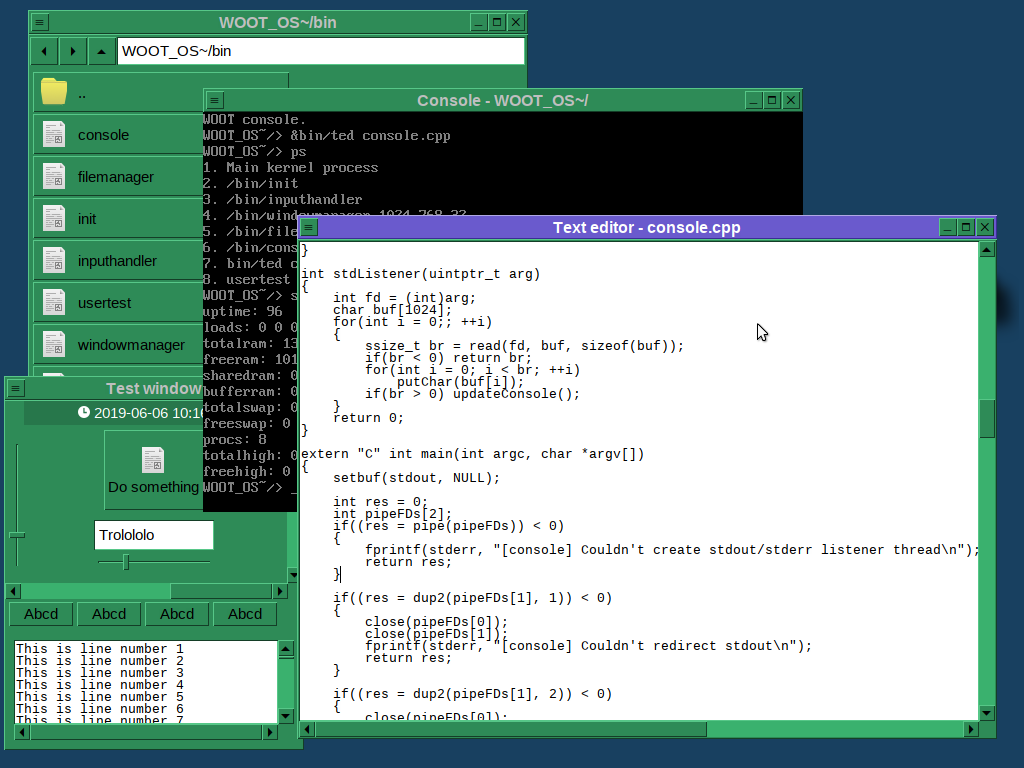
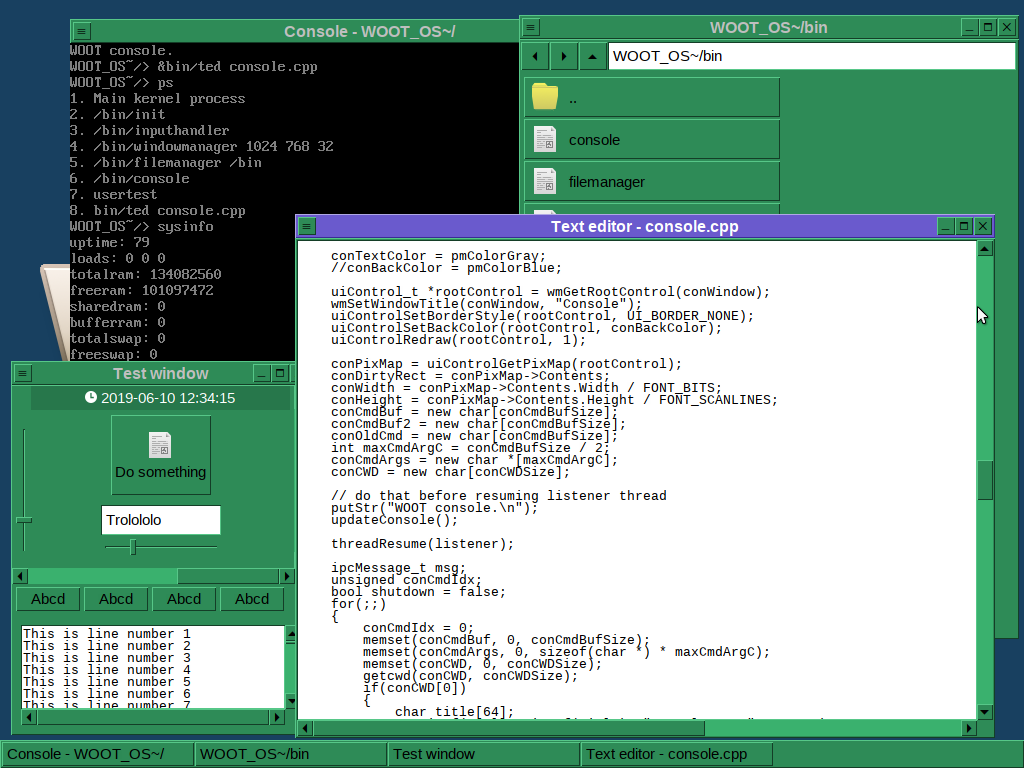
fixed wrong error message implemented more of a taskbar updated screenshot

diff --git a/user/windowmanager/wm.cpp b/user/windowmanager/wm.cpp
@@ -359,8 +359,8 @@ extern "C" int main(int argc, char *argv[])
                     unsigned h = *(unsigned *)(args + 12);
                     unsigned flags = *(unsigned *)(args + 16);
 
-                    if(x == WM_CW_USEDEFAULT) x = (bbPixMap->Contents.Width - w) / 2;
-                    if(y == WM_CW_USEDEFAULT) y = (bbPixMap->Contents.Height - h) / 2;
+                    if(x == WM_CW_USEDEFAULT) x = (deskRect.Width - w) / 2;
+                    if(y == WM_CW_USEDEFAULT) y = (deskRect.Height - h) / 2;
 
                     //printf("[windowmanager] wmCreateWindow(%d, %d, %d, %d, %#.8x)\n", x, y, w, h, flags);
                     Window *wnd = new Window(msg.Source, x, y, w, h, flags, bbPixMap, nullptr);
@@ -418,7 +418,6 @@ extern "C" int main(int argc, char *argv[])
                         delete wnd;
                     }
                     rpcIPCReturn(msg.Source, msg.ID, NULL, 0);
-                    // create taskbar button
                 }
                 else if(!strcmp(req, "wmRedrawWindow"))
                 {

diff --git a/user/console/console.cpp b/user/console/console.cpp
@@ -167,7 +167,7 @@ extern "C" int main(int argc, char *argv[])
     int pipeFDs[2];
     if((res = pipe(pipeFDs)) < 0)
     {
-        fprintf(stderr, "[console] Couldn't create stdout/stderr listener thread\n");
+        fprintf(stderr, "[console] Couldn't create pipe\n");
         return res;
     }
 
